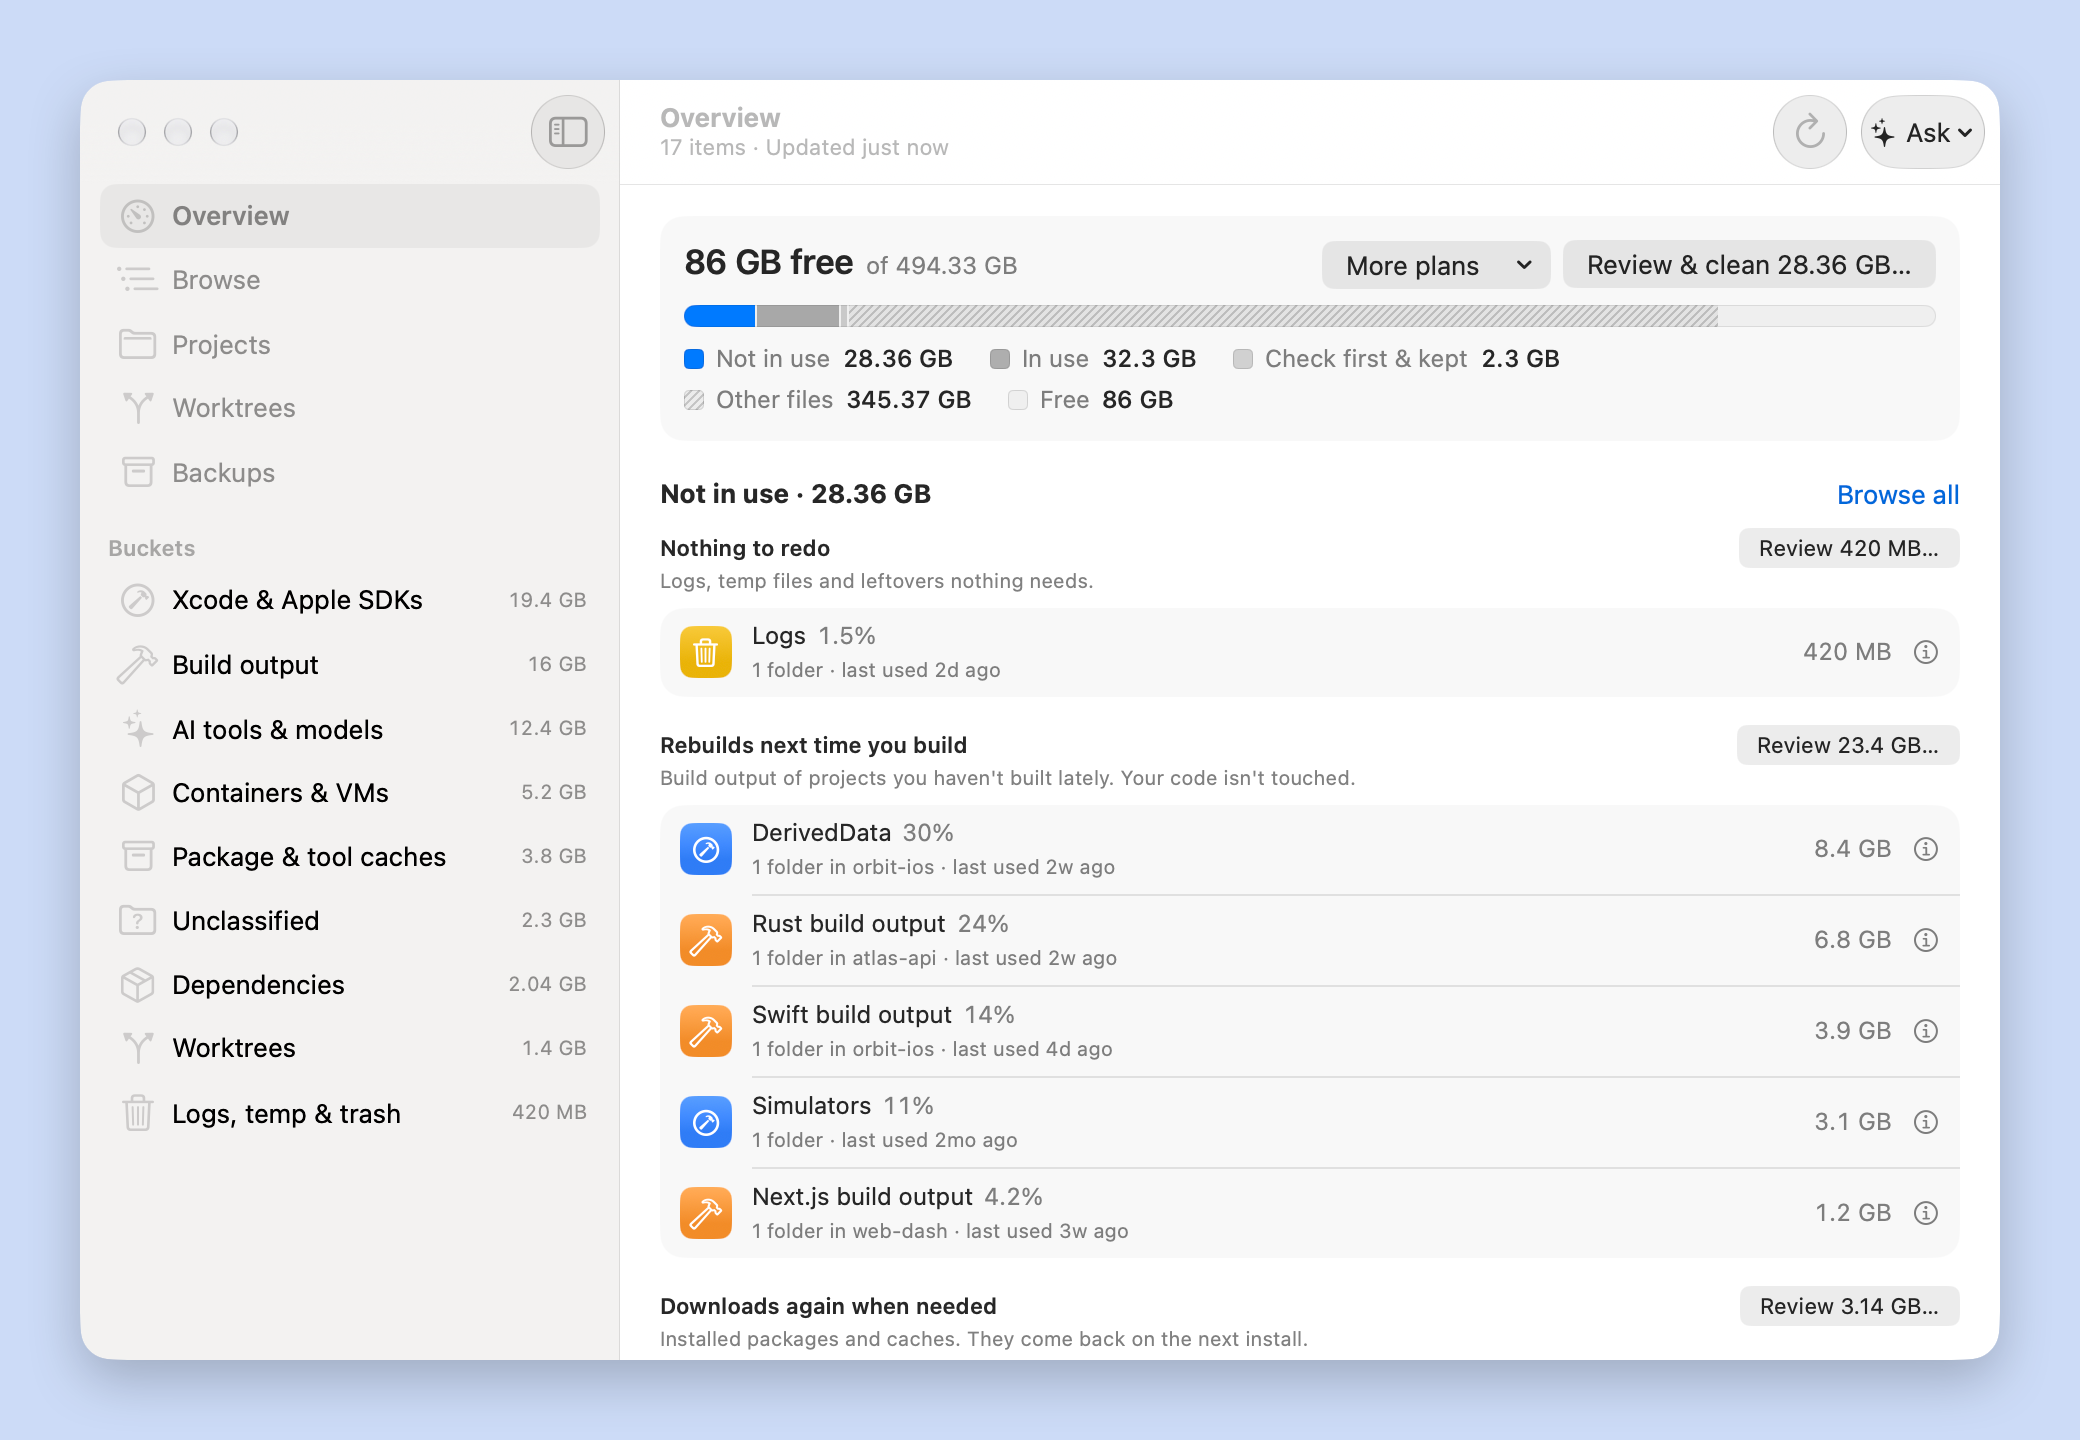
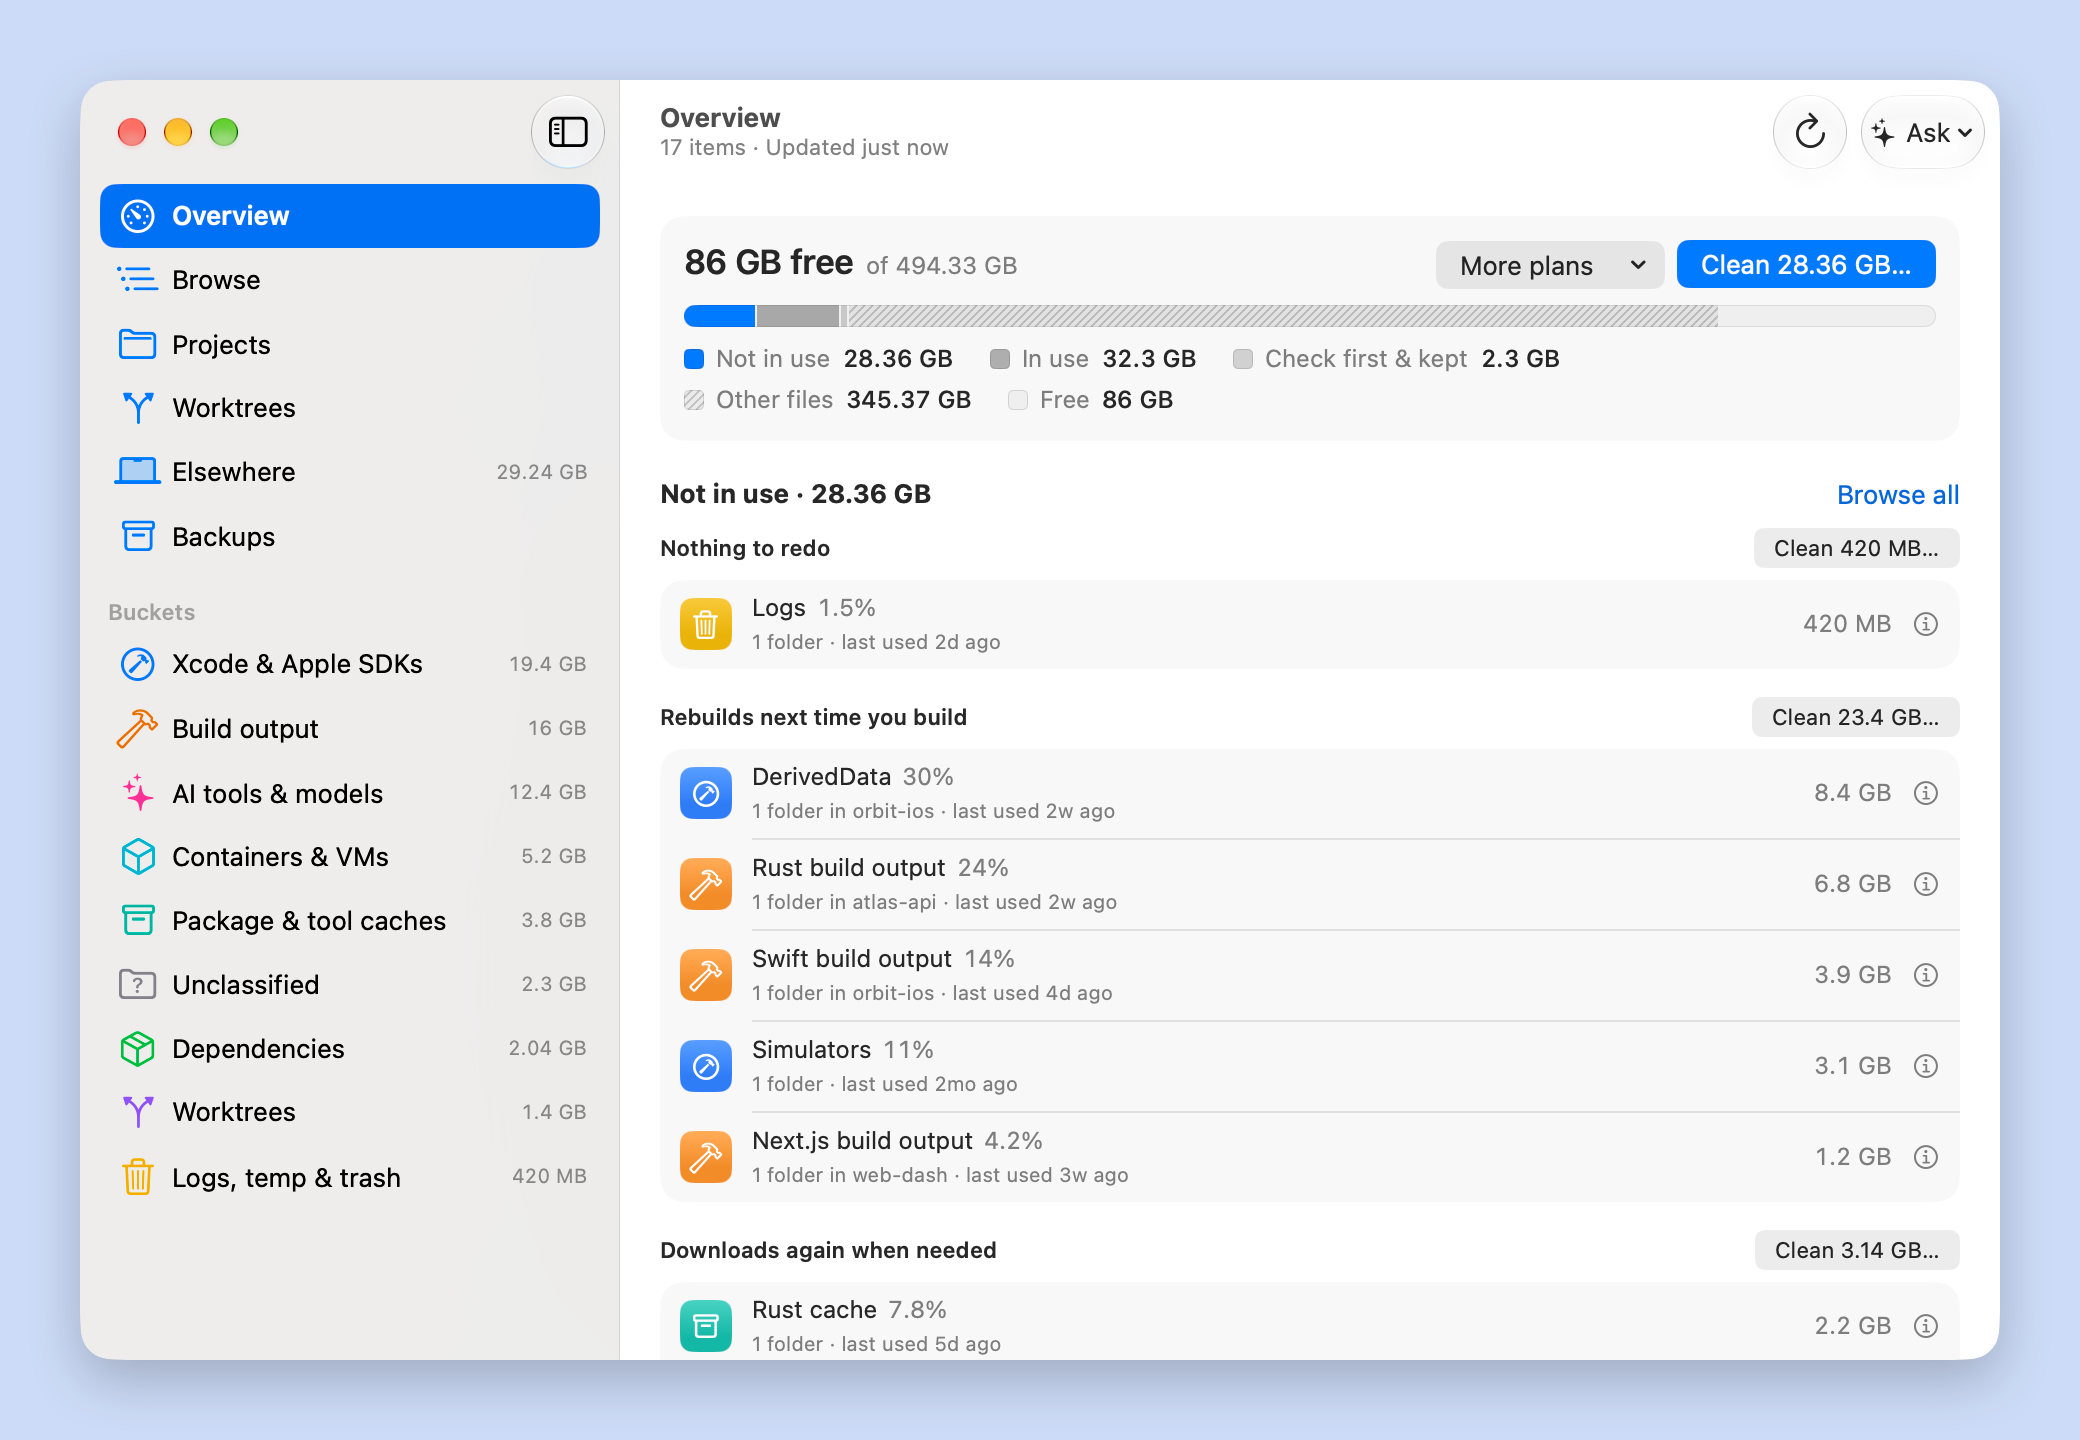
docs: elsewhere screenshot, new menu bar panel, privacy prompt note [skip release]

diff --git a/README.md b/README.md
@@ -25,7 +25,7 @@ It also covers the usual cleaner territory (app, browser and system caches, logs
 installers, Docker, Homebrew) with safety rules learned from tools like Mole.
 
 <p align="center">
-  <img src="docs/images/menubar.png" alt="The Poo menu bar panel: free space, what is safe to free by area, one Review &amp; clean button" width="49%">
+  <img src="docs/images/menubar.png" alt="The Poo menu bar panel: free space, one Clean button, the areas behind it on demand" width="49%">
   <img src="docs/images/overview.png" alt="The Poo window: disk breakdown, not-in-use space grouped by what a clean costs you" width="49%">
 </p>
 
@@ -33,6 +33,7 @@ installers, Docker, Homebrew) with safety rules learned from tools like Mole.
 |---|---|
 | ![Browse every item, with why it is there and what cleaning it costs](docs/images/browse.png) | ![Cleaning progress with a running total and Stop](docs/images/cleaning.png) |
 | ![After a clean: freed space and what was backed up](docs/images/freed.png) | ![The menu bar panel in dark mode](docs/images/menubar-dark.png) |
+| ![Elsewhere on This Mac: snapshots, purgeable space and device backups Poo explains but leaves alone](docs/images/elsewhere.png) | |
 
 The CLI has the same picture, as an interactive terminal UI (`poo`) and as plain output
 for scripts and agents (JSON when piped):
@@ -222,7 +223,9 @@ about 635 rules, 96 project stacks and 12 agent worktree homes. It covers
   Cline and friends, Ollama, LM Studio and other local model stores.
 - **macOS:** app, browser and Electron caches, logs, crash reports, installers, app
   leftovers and the Trash. Locations macOS protects (browser profiles, Safari, Mail,
-  device backups) are read only when poo has Full Disk Access.
+  device backups) are read only when poo has Full Disk Access. Poo never asks macOS
+  folder by folder: without Full Disk Access it skips folders that would show a privacy
+  prompt (Downloads, other apps' data, iCloud Drive) and says so once.
 
 Generic folder names (`dist`, `build`, `out`, `vendor`, `site`) only count when git
 ignores them. Buckets, plans, stacks, worktree homes and guards are mod data too. Add rules,
@@ -298,8 +301,7 @@ gh secret set SPARKLE_PRIVATE_KEY < sparkle-private-key.txt
 rm sparkle-private-key.txt
 ```
 
-The private key lives in your login keychain ("Private key for signing Sparkle
-updates"); back it up, because losing it means shipped apps can only update again
+The private key lives in your login keychain; back it up, because losing it means shipped apps can only update again
 through a Developer ID signed build. The public key does not need to be stored
 anywhere: the release derives it from the secret (`scripts/sparkle.sh pubkey`).
 
